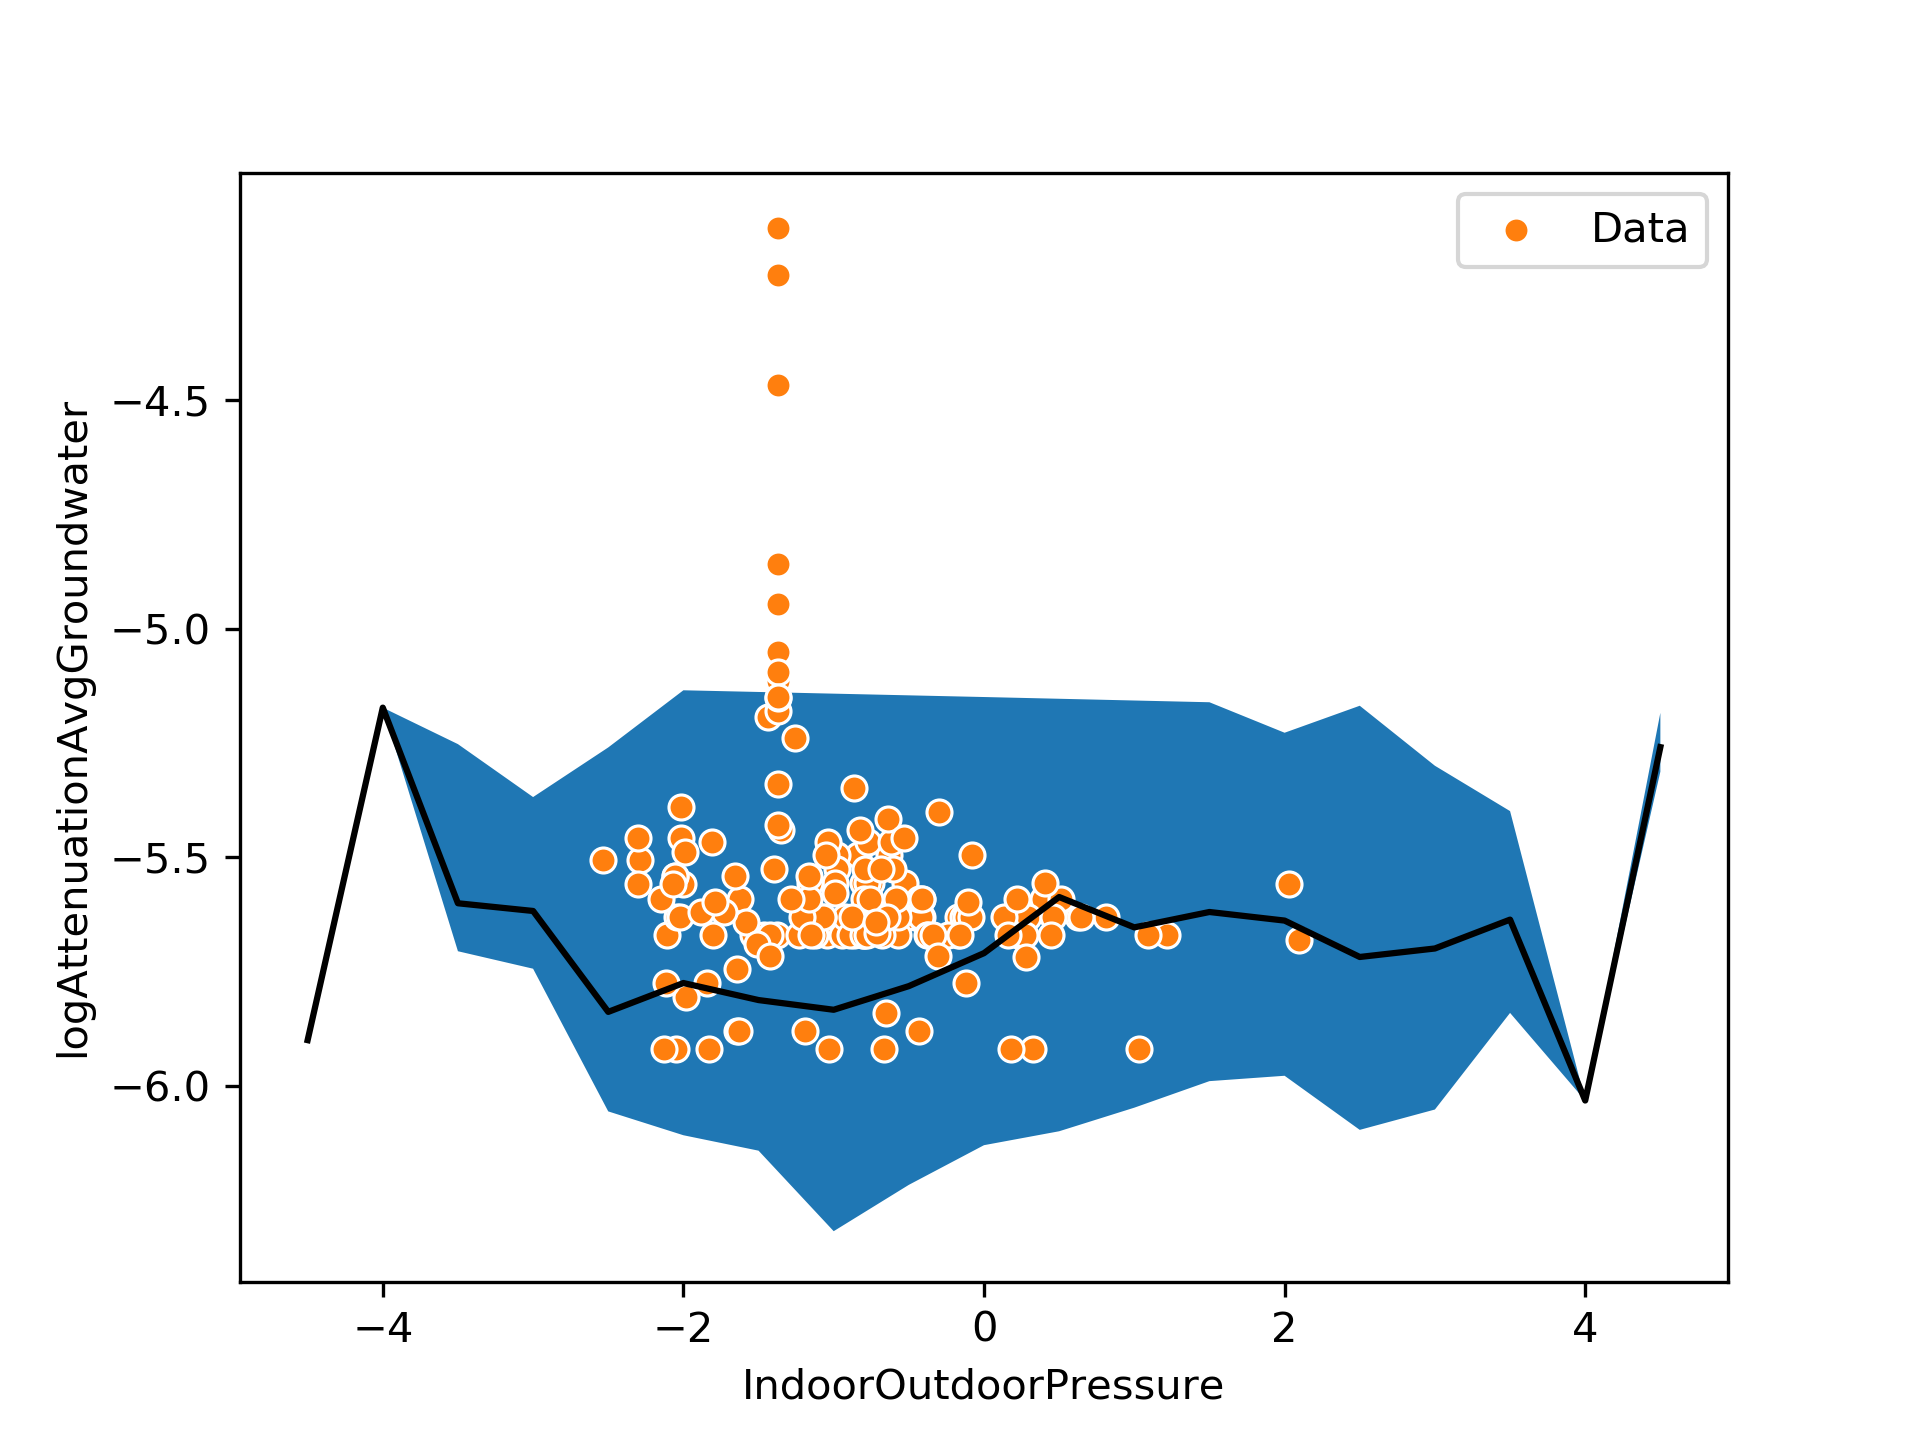
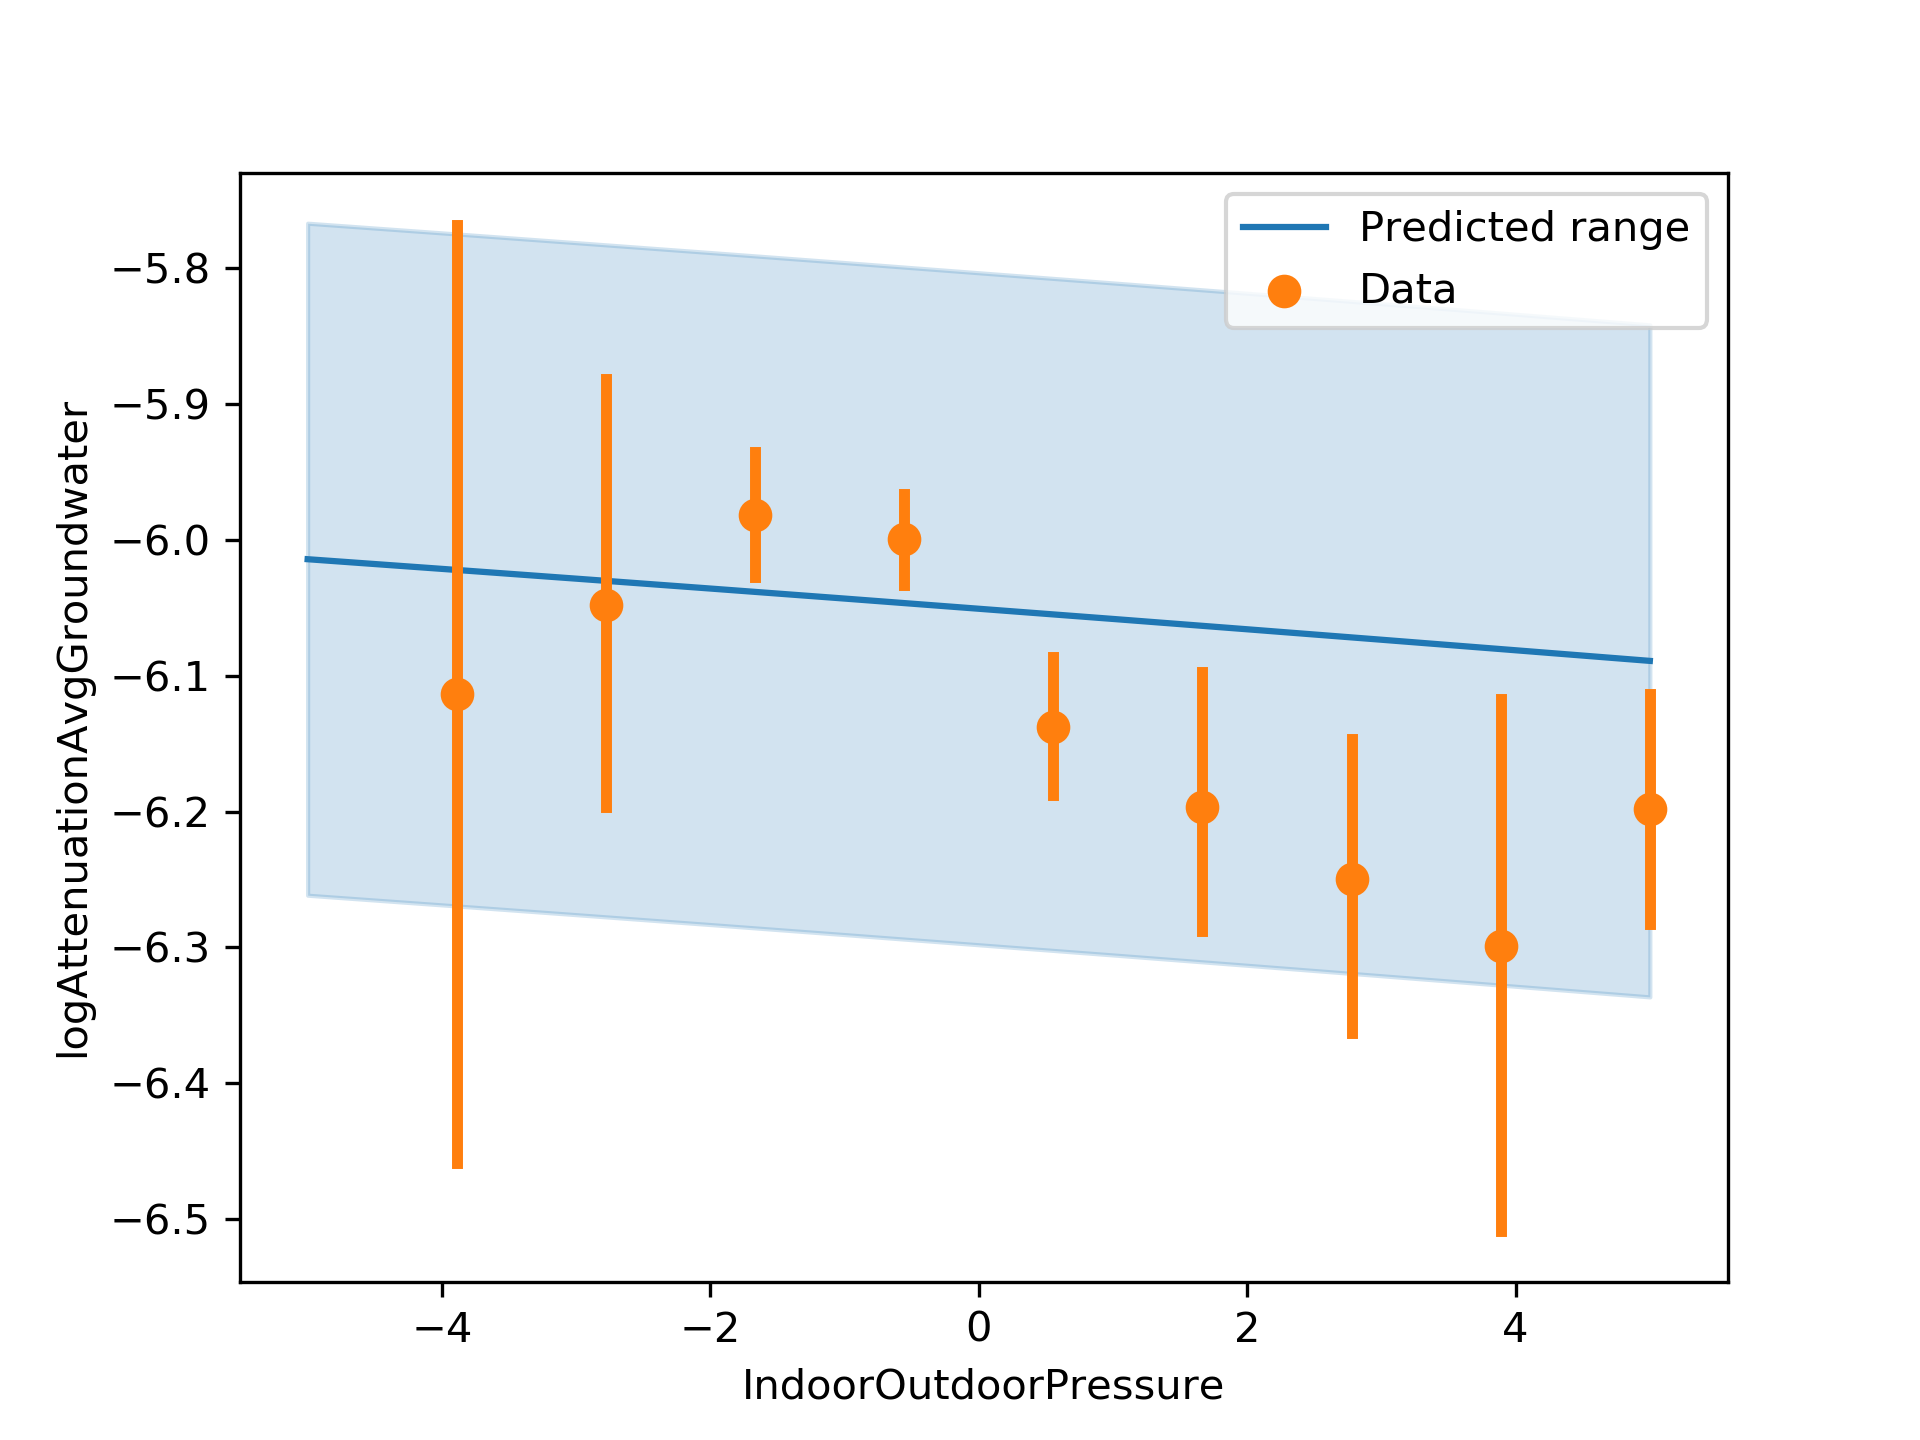
New flucating Ae figures

diff --git a/code/land_drain_scenarios.py b/code/land_drain_scenarios.py
@@ -43,59 +43,142 @@ df['logAttenuationGroundwater'] = df['AttenuationGroundwater'].apply(np.log10)
 #fig, ax = plt.subplots()
 
 
-g = sns.lmplot(
-    data=asu.loc[asu['Phase']!='CPM'][['IndoorOutdoorPressure','logAttenuationAvgGroundwater','Phase']],
-    x='IndoorOutdoorPressure',
-    y='logAttenuationAvgGroundwater',
-    hue='Phase',
-    x_bins=np.linspace(-5,5,20),
-    fit_reg=False,
-    legend_out=False,
-    legend=False,
-    #aspect=1.5,
-)
+class ConstantAe:
+    def __init__(self):
 
-ax = g.axes[0][0]
-sns.lineplot(
-    data=df.loc[(df['AirExchangeRate'] >= 0.4) & (df['AirExchangeRate'] <= 0.6)][['IndoorOutdoorPressure','logAttenuationGroundwater','Simulation']],
-    x='IndoorOutdoorPressure',
-    y='logAttenuationGroundwater',
-    hue='Simulation',
-    hue_order=['Pp', 'No Pp', 'Pp Uniform',],
-    ax=ax,
-    #legend=False,
-)
+        g = sns.lmplot(
+            data=asu.loc[asu['Phase']!='CPM'][['IndoorOutdoorPressure','logAttenuationAvgGroundwater','Phase']],
+            x='IndoorOutdoorPressure',
+            y='logAttenuationAvgGroundwater',
+            hue='Phase',
+            x_bins=np.linspace(-5,5,20),
+            fit_reg=False,
+            legend_out=False,
+            legend=False,
+            #aspect=1.5,
+        )
 
-
-handles, labels = ax.get_legend_handles_labels()
-handles = handles[1:]
-
-labels = (
-    'PP present',
-    'PP absent',
-    'PP present, \ngravel sub-base\nabsent',
-    'Data, PP open',
-    'Data, PP closed',
-)
-
-ax.legend(
-    handles,
-    labels,
-    #ncol=2,
-    loc='best',
-)
-
-ax.set_xlim([-6,6])
-ax.set_ylim([-7,-3.7])
-
-ax.set_xlabel('$\\Delta p_\\mathrm{in/out}$ (Pa)')
-ax.set_ylabel('$\\log{(\\alpha_\\mathrm{gw})}$')
-my_ytick_labels = ["%1.0e" % y_tick for y_tick in 10.0**ax.get_yticks()]
-ax.set_yticklabels(my_ytick_labels)
-ax.set_title('Modeling PP scenarios, assuming constant $A_e$,\nand comparing to \"ASU house\" field data')
+        ax = g.axes[0][0]
+        sns.lineplot(
+            data=df.loc[(df['AirExchangeRate'] >= 0.4) & (df['AirExchangeRate'] <= 0.6)][['IndoorOutdoorPressure','logAttenuationGroundwater','Simulation']],
+            x='IndoorOutdoorPressure',
+            y='logAttenuationGroundwater',
+            hue='Simulation',
+            hue_order=['Pp', 'No Pp', 'Pp Uniform',],
+            ax=ax,
+            #legend=False,
+        )
 
 
-plt.tight_layout()
+        handles, labels = ax.get_legend_handles_labels()
+        handles = handles[1:]
 
-plt.savefig('./figures/simulation_predictions/land_drain_scenarios.png',dpi=300)
-#plt.show()
+        labels = (
+            'PP present',
+            'PP absent',
+            'PP present, \ngravel sub-base\nabsent',
+            'Data, PP open',
+            'Data, PP closed',
+        )
+
+        ax.legend(
+            handles,
+            labels,
+            #ncol=2,
+            loc='best',
+        )
+
+        ax.set_xlim([-6,6])
+        ax.set_ylim([-7,-3.7])
+
+        ax.set_xlabel('$\\Delta p_\\mathrm{in/out}$ (Pa)')
+        ax.set_ylabel('$\\log{(\\alpha_\\mathrm{gw})}$')
+        my_ytick_labels = ["%1.0e" % y_tick for y_tick in 10.0**ax.get_yticks()]
+        ax.set_yticklabels(my_ytick_labels)
+        ax.set_title('Modeling PP scenarios, assuming constant $A_e$,\nand comparing to \"ASU house\" field data')
+
+
+        plt.tight_layout()
+
+        plt.savefig('./figures/simulation_predictions/land_drain_scenarios_constant_ae.png',dpi=300)
+        plt.show()
+        return
+
+
+class FluctuatingAe:
+    def __init__(self):
+        ae_describe = asu['AirExchangeRate'].describe(percentiles=[0.05, 0.95])
+        data = asu.loc[
+            ((asu['IndoorOutdoorPressure']>=-5) & (asu['IndoorOutdoorPressure']<=5)) &
+            (asu['Phase']!='CPM')
+            #(
+            #    (asu['logAttenuationAvgGroundwater']>=quantiles[0]) &
+            #    (asu['logAttenuationAvgGroundwater']<=quantiles[1])
+            #)
+        ]
+
+
+        sim = df.loc[
+            (
+                (df['AirExchangeRate'] >= ae_describe['5%']) &
+                (df['AirExchangeRate'] <= ae_describe['95%'])
+            )
+        ]
+        g = sns.lmplot(
+            data=data,
+            x='IndoorOutdoorPressure',
+            y='logAttenuationAvgGroundwater',
+            hue='Phase',
+            x_bins=np.linspace(-5,5,20),
+            fit_reg=False,
+            legend_out=False,
+            legend=False,
+            #aspect=1.5,
+        )
+
+        ax = g.axes[0][0]
+        sns.lineplot(
+            data=sim,
+            x='IndoorOutdoorPressure',
+            y='logAttenuationGroundwater',
+            hue='Simulation',
+            hue_order=['Pp', 'No Pp',],
+            ax=ax,
+            #legend=False,
+        )
+
+
+        handles, labels = ax.get_legend_handles_labels()
+        handles = handles[1:]
+
+        labels = (
+            'PP present',
+            'PP absent',
+            'Data, PP open',
+            'Data, PP closed',
+        )
+
+        ax.legend(
+            handles,
+            labels,
+            #ncol=2,
+            loc='best',
+        )
+
+        ax.set_xlim([-6,6])
+        ax.set_ylim([-7,-3.7])
+
+        ax.set_xlabel('$\\Delta p_\\mathrm{in/out}$ (Pa)')
+        ax.set_ylabel('$\\log{(\\alpha_\\mathrm{gw})}$')
+        my_ytick_labels = ["%1.0e" % y_tick for y_tick in 10.0**ax.get_yticks()]
+        ax.set_yticklabels(my_ytick_labels)
+        ax.set_title('Modeling PP scenarios, assuming constant $A_e$,\nand comparing to \"ASU house\" field data')
+
+
+        plt.tight_layout()
+
+        plt.savefig('./figures/simulation_predictions/land_drain_scenarios_flucating_ae.png',dpi=300)
+        plt.show()
+        return
+ConstantAe()
+FluctuatingAe()

diff --git a/code/simulation_predictions.py b/code/simulation_predictions.py
@@ -170,59 +170,47 @@ class SimPrediction:
             'Open': ['Open', 'Pp'],
             'Closed': ['Closed', 'No Pp'],
         }
-        asu_span = asu.loc[(asu['Phase']==options[status][0]) & ( (asu['IndoorOutdoorPressure']>=-5) & (asu['IndoorOutdoorPressure']<=5) )]
-        sim_span = df[df['Simulation']==options[status][1]]
+        quantiles = list(asu.loc[asu['Phase']==options[status][0]]['logAttenuationAvgGroundwater'].quantile([0.05,0.95]))
+        ae_describe = asu['AirExchangeRate'].describe(percentiles=[0.05, 0.95])
 
-        grp = asu_span[['IndoorOutdoorPressure','AirExchangeRate']].groupby(pd.cut(asu_span['IndoorOutdoorPressure'], np.arange(-5, 5.5, 0.5))).describe(percentiles=[0.05, 0.95])
-        p_in = grp['IndoorOutdoorPressure'].index
-        p_in = np.arange(-5, 5, 0.5)
-        #print(p_in.categories.astype('float'))
 
-        Ae_min = grp[('AirExchangeRate','min')].values
-        Ae_max = grp[('AirExchangeRate','max')].values
-        Ae_mean = grp[('AirExchangeRate','mean')].values
+        data = asu.loc[
+            (asu['Phase']==options[status][0]) &
+            ((asu['IndoorOutdoorPressure']>=-5) & (asu['IndoorOutdoorPressure']<=5)) #&
+            #(
+            #    (asu['logAttenuationAvgGroundwater']>=quantiles[0]) &
+            #    (asu['logAttenuationAvgGroundwater']<=quantiles[1])
+            #)
+        ]
 
-        alpha_min = []
-        alpha_max = []
-        alpha_mean = []
 
-        func = self.get_interp_func(sim_span)
-        for p, min, max, mean in zip(p_in, Ae_min, Ae_max, Ae_mean):
-
-            alpha_min.append(func(p,max)[0])
-            alpha_max.append(func(p,min)[0])
-            alpha_mean.append(func(p,mean)[0])
-
-        alpha_min = np.array(alpha_min)
-        alpha_max = np.array(alpha_max)
-        alpha_mean = np.array(alpha_mean)
+        sim = df.loc[
+            (df['Simulation']==options[status][1]) &
+            (
+                (df['AirExchangeRate'] >= ae_describe['5%']) &
+                (df['AirExchangeRate'] <= ae_describe['95%'])
+            )
+        ]
 
         fig, ax = plt.subplots()
-        #ax.plot(p_in, alpha_min, label='min')
-        #ax.plot(p_in, alpha_max, label='max')
-        """
-        ax.errorbar(
-            p_in,
-            alpha_mean,
-            yerr=(alpha_mean-alpha_min, alpha_max-alpha_mean),
-            #xerr=None,
-        )
-        """
 
-        ax.plot(p_in, alpha_mean, 'k-')
-        ax.fill_between(
-            p_in,
-            alpha_mean-(alpha_mean-alpha_min),
-            alpha_mean+(alpha_max-alpha_mean),
+
+        ax = sns.lineplot(
+            data=sim,
+            x='IndoorOutdoorPressure',
+            y='logAttenuationGroundwater',
+            ci='sd',
+            ax=ax,
+            label='Predicted range'
         )
 
-        sns.scatterplot(
-            data=asu_span.loc[asu_span['IndoorConcentration']>=0.05],
+        ax = sns.regplot(
+            data=data,
             x='IndoorOutdoorPressure',
             y='logAttenuationAvgGroundwater',
             ax=ax,
-            x_bins=p_in,
-            #legend=False,
+            x_bins=np.linspace(-5, 5, 20),
+            fit_reg=False,
             label='Data',
         )
 
@@ -230,7 +218,6 @@ class SimPrediction:
         plt.legend()
         plt.savefig(fig_dir+'simulation_prediction_span_'+status.lower()+ext,dpi=300)
         plt.show()
-        #print(grp[('AirExchangeRate','min')].values)
 
         return
 
@@ -249,8 +236,6 @@ class SimPrediction:
         return func
 
 
-
-gs = gridspec.GridSpec(2, 2)
 
 SimPrediction(status='Open')
 SimPrediction(status='Closed')
